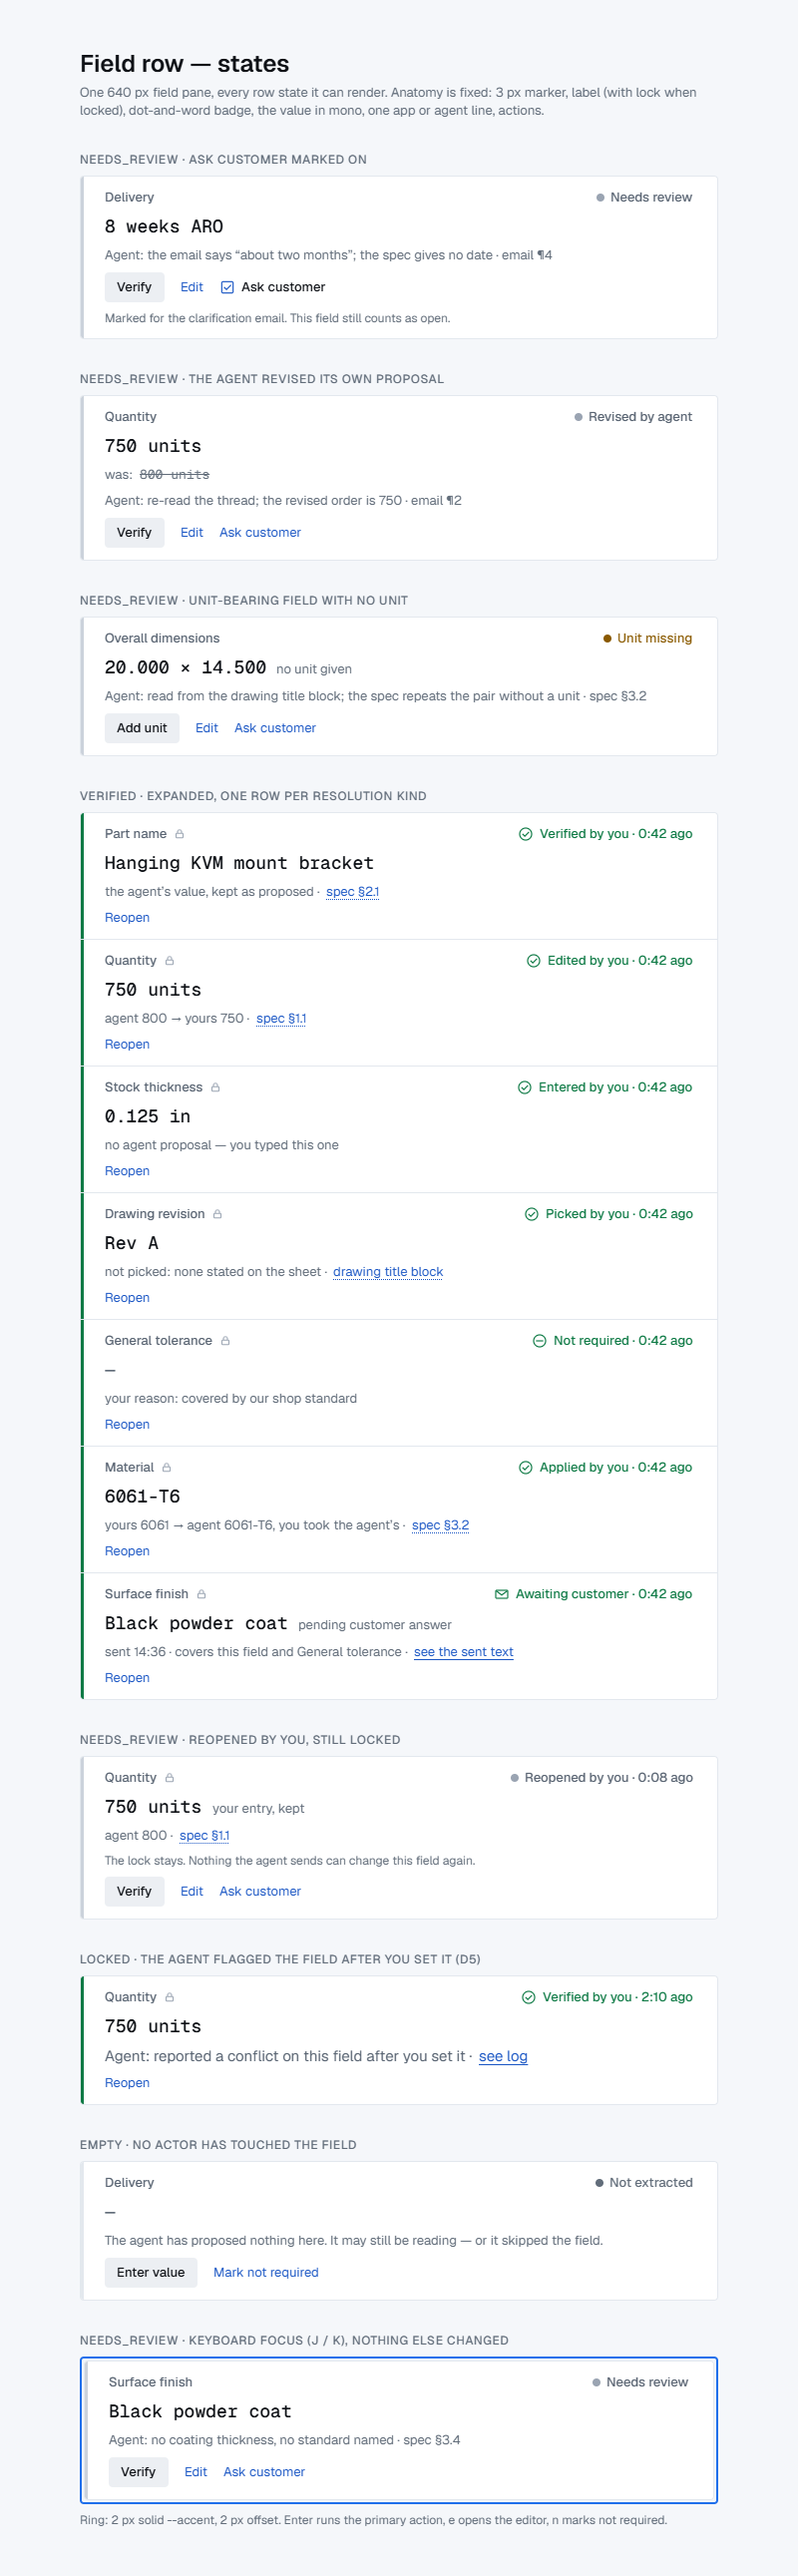
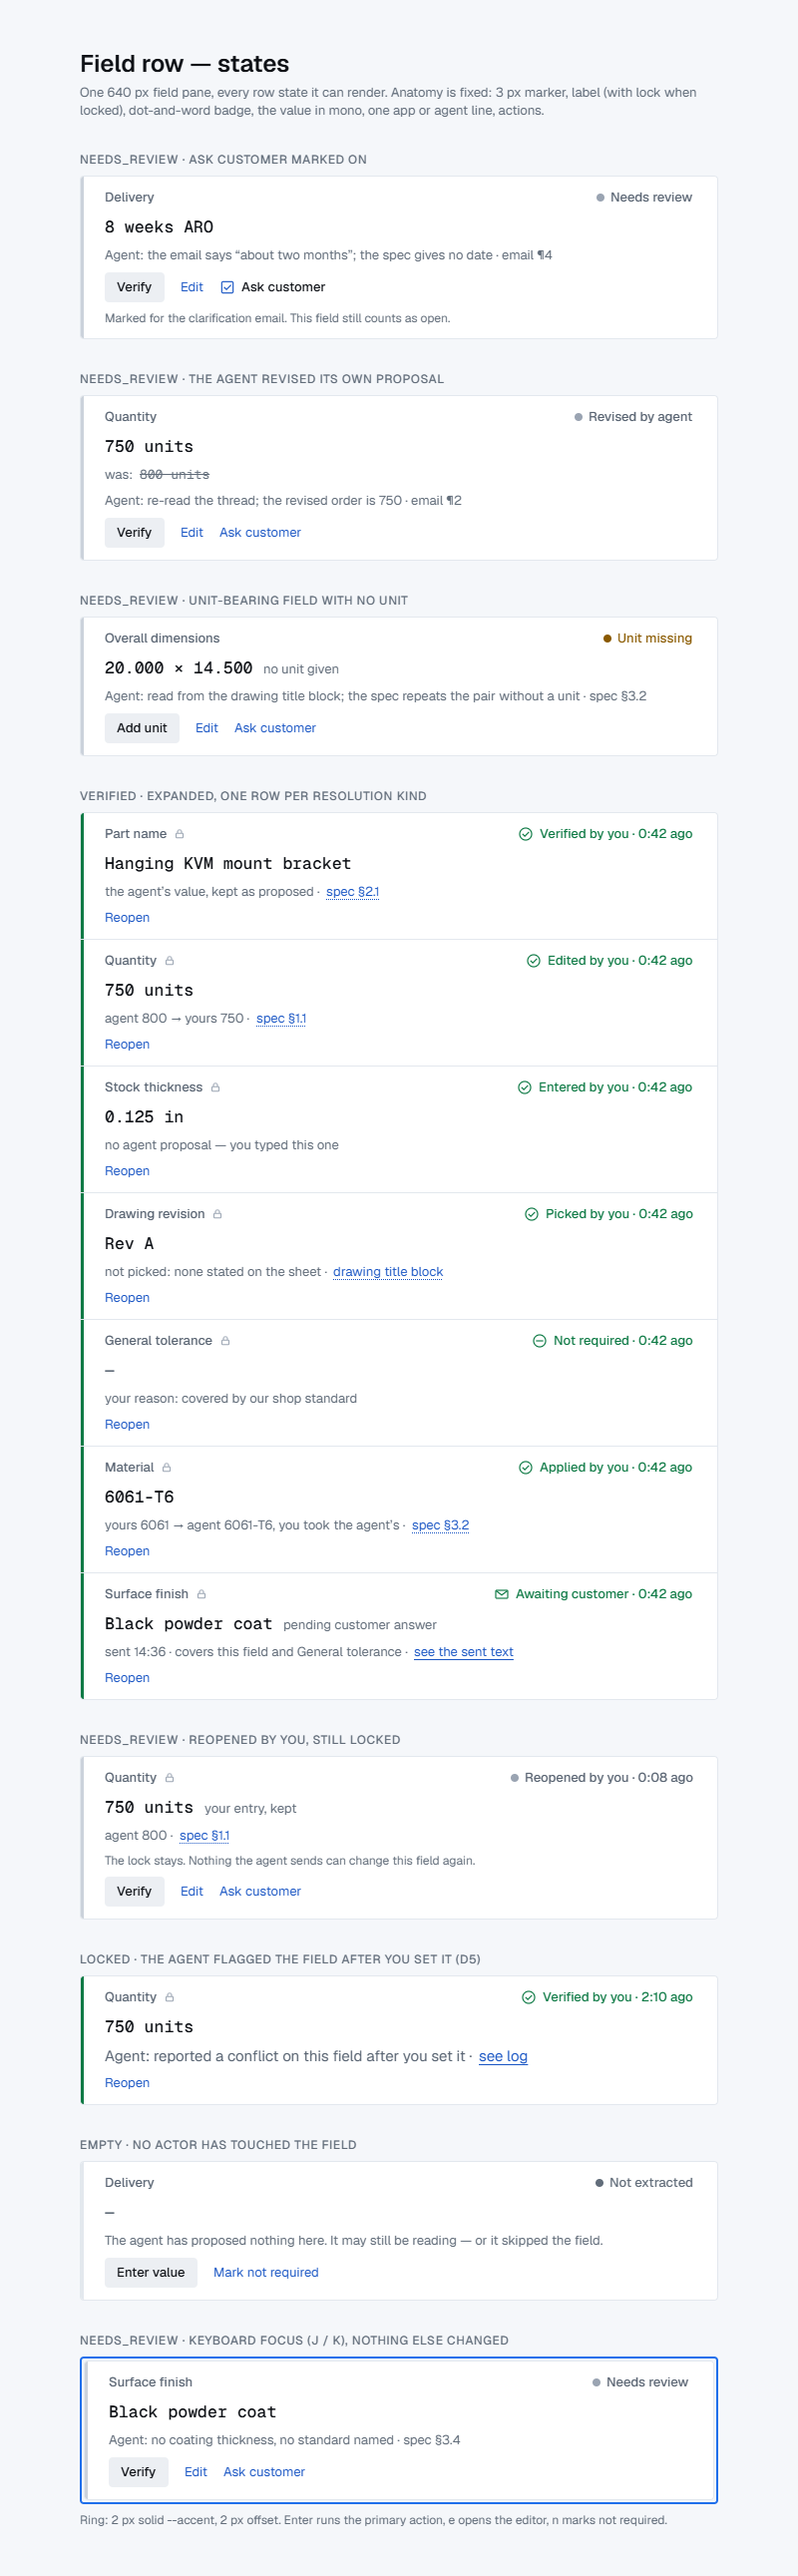
Design references 15–17 (replay row, export/import, drawing zoom); mono size in exports; DESIGN.md mono list matches the approved exports

diff --git a/tasks/P3-replay-export-import.md b/tasks/P3-replay-export-import.md
@@ -12,7 +12,7 @@ The fallback becomes a complete, controllable replay and the session becomes a f
 
 1. `build-spec.md` § Fixture and replay, § Screens 5 (summary), § Component inventory (`ReplayControls`, `ChangeLogDrawer` + import input), § Size and performance budgets.
 2. `DESIGN.md` — tokens, interaction states, spacing roles and the two lanes, § Typography (the mono companion size), "labels never wrap, bars stack", § Choice controls (a native file input stays native), motion.
-3. `docs/design/09-status-strip-states.png` (the `live` line these controls sit under) and `14-narrow-change-log-sheet-390.png` (the sheet the import control lives in). The replay row, the export and import controls and the summary lines are **not drawn**; § UI rules below is their specification, and the pull request carries screenshots at 1920, 1366 and 390 for each state listed there.
+3. `docs/design/15-replay-row-states.png` (the replay row in its four states, desktop and 390) and `16-change-log-export-import.png` (expanded header with Export/Import, the import error line, the one-line collapsed bar, the 390 sheet header); `09` and `14` for the strip and sheet they sit in. Where an export and a rule disagree the rule wins (the exports label the disclosure "23 entries"; the shipped label "Show change log" stays). The pull request carries screenshots at 1920, 1366 and 390 for each replay-row state.
 4. `docs/scenarios.md` — B1, B8, S10, B10, B11 are this task's scenarios.
 
 ## Scope — files
@@ -108,7 +108,7 @@ Read entries name what was read instead of the generic "Agent read the RFQ packa
 
 ### Mono companion size (DESIGN.md § Typography, rule added 2026-09-02)
 
-Runs of mono text set beside `lg` sans read a step larger than the sans (Geist Mono's advance width). They take `--text-lg-mono: 1.029rem` (cap-height 11) with the unchanged `lg` leading: `.field-row__value`, `.candidate-option__value`, `.suggestion-card__value`, `.field-row__revision`, `.field-row__agent-original`, `.drawing-sheet__caption`, `.confirm-summary__line`. Chips, counts, timestamps, the strip counter and the prompt stay on their tokens. Row heights do not change (same leading); the e2e layout guard extends by one assertion on the computed size of a field value.
+Runs of mono text set beside `lg` sans read a step larger than the sans (Geist Mono's advance width). They take `--text-lg-mono: 1.029rem` (cap-height 11) with the unchanged `lg` leading: `.field-row__value`, `.candidate-option__value`, `.suggestion-card__value`, `.inline-editor__input`. Per the approved exports (08, 11, 06) three classes are not lg at all: `.field-row__revision`, `.field-row__agent-original` and `.confirm-summary__line` are `--text-sm` mono with `--leading-sm`; `.drawing-sheet__caption` is sans `--text-md` in `--ink-secondary` (drop it from the mono group). Chips, counts, timestamps, the strip counter and the prompt stay on their tokens. Row heights do not change (same leading); the e2e layout guard extends by one assertion on the computed size of a field value.
 
 ## Order of work (test first; one commit per green step, subjects `P3 <area>: …`)
 

diff --git a/DESIGN.md b/DESIGN.md
@@ -115,7 +115,7 @@ Dense data-UI physics: sizes target *observable cap-height* — the rendered hei
 | `--text-md` | 10 px | `0.936rem` | `--leading-md: 1rem`; loose `1.25rem` | field labels, buttons, actions, log entries |
 | `--text-lg` | 12 px | `1.122rem` | `--leading-lg: 1.25rem`; loose `1.5rem` | **default body**: field values, document text |
 | `--text-xl` | 16 px | `1.497rem` | `--leading-xl: 2rem` | pane titles, confirm summary title |
-| `--text-lg-mono` | 11 px | `1.029rem` | `--leading-lg` / loose, unchanged | **mono runs beside `lg` sans**: field values, candidate values, suggestion-card values, the "was:" line, the drawing caption, summary lines — never chips, counts or timestamps |
+| `--text-lg-mono` | 11 px | `1.029rem` | `--leading-lg` / loose, unchanged | **mono runs beside `lg` sans**: field values (`.field-row__value`), candidate values, suggestion-card values, the value inside an open editor — never chips, counts or timestamps. The "was:" line, the agent-original line under a verified row and the confirm-summary lines are `sm` mono (exports 08, 11); the drawing caption is sans `md` in `--ink-secondary` (export 06) |
 
 Rules the builder must not trade away:
 

diff --git a/tasks/P4-drawing-zoom.md b/tasks/P4-drawing-zoom.md
@@ -12,7 +12,7 @@ The drawing sheet is a 2200 × 1540 image shown at pane width, where dimension t
 
 1. `build-spec.md` § Screens (source pane, Drawing tab), § Size and performance budgets.
 2. `DESIGN.md` — § Choice controls (the segmented control is the `in` | `mm` component: a radio group), spacing roles, the document gutter, hit targets, motion, "no horizontal page scroll at 320px — anything wide scrolls inside its own wrapper".
-3. `docs/design/06-triage-drawing-tab-1920.png` — the Drawing tab as drawn (at `1×`; the toolbar is not drawn, § UI rules specifies it; screenshots at 1920 and 390 in the pull request).
+3. `docs/design/17-drawing-zoom.png` — the toolbar and the sheet at `1×` and `2×` (1920) and at `2×` inside the 390 source sheet; `06` for the tab at `1×` as shipped. The export prints a region id and a file name in captions and headers; the rule wins (no ids in the source pane, the sheet header shows the document title). Screenshots at 1920 and 390 in the pull request.
 4. `docs/scenarios.md` — S4 (overall dimensions from the drawing, provenance into the sheet), B10, B11.
 
 ## Scope — files

diff --git a/docs/design/README.md b/docs/design/README.md
@@ -15,3 +15,6 @@ Exports of the approved screens and state sheets, at 1x. `DESIGN.md` is the sour
 | 12 | Inline editor and the not-required picker |
 | 13 | Narrow: source sheet over the field list |
 | 14 | Narrow: change log sheet |
+| 15 | Replay row: playing, paused, ended, error, and the 390 stack |
+| 16 | Change log: export and import, the expanded header and the collapsed one-line bar |
+| 17 | Drawing zoom: the toolbar, 1× and 2×, and 2× at 390 |
